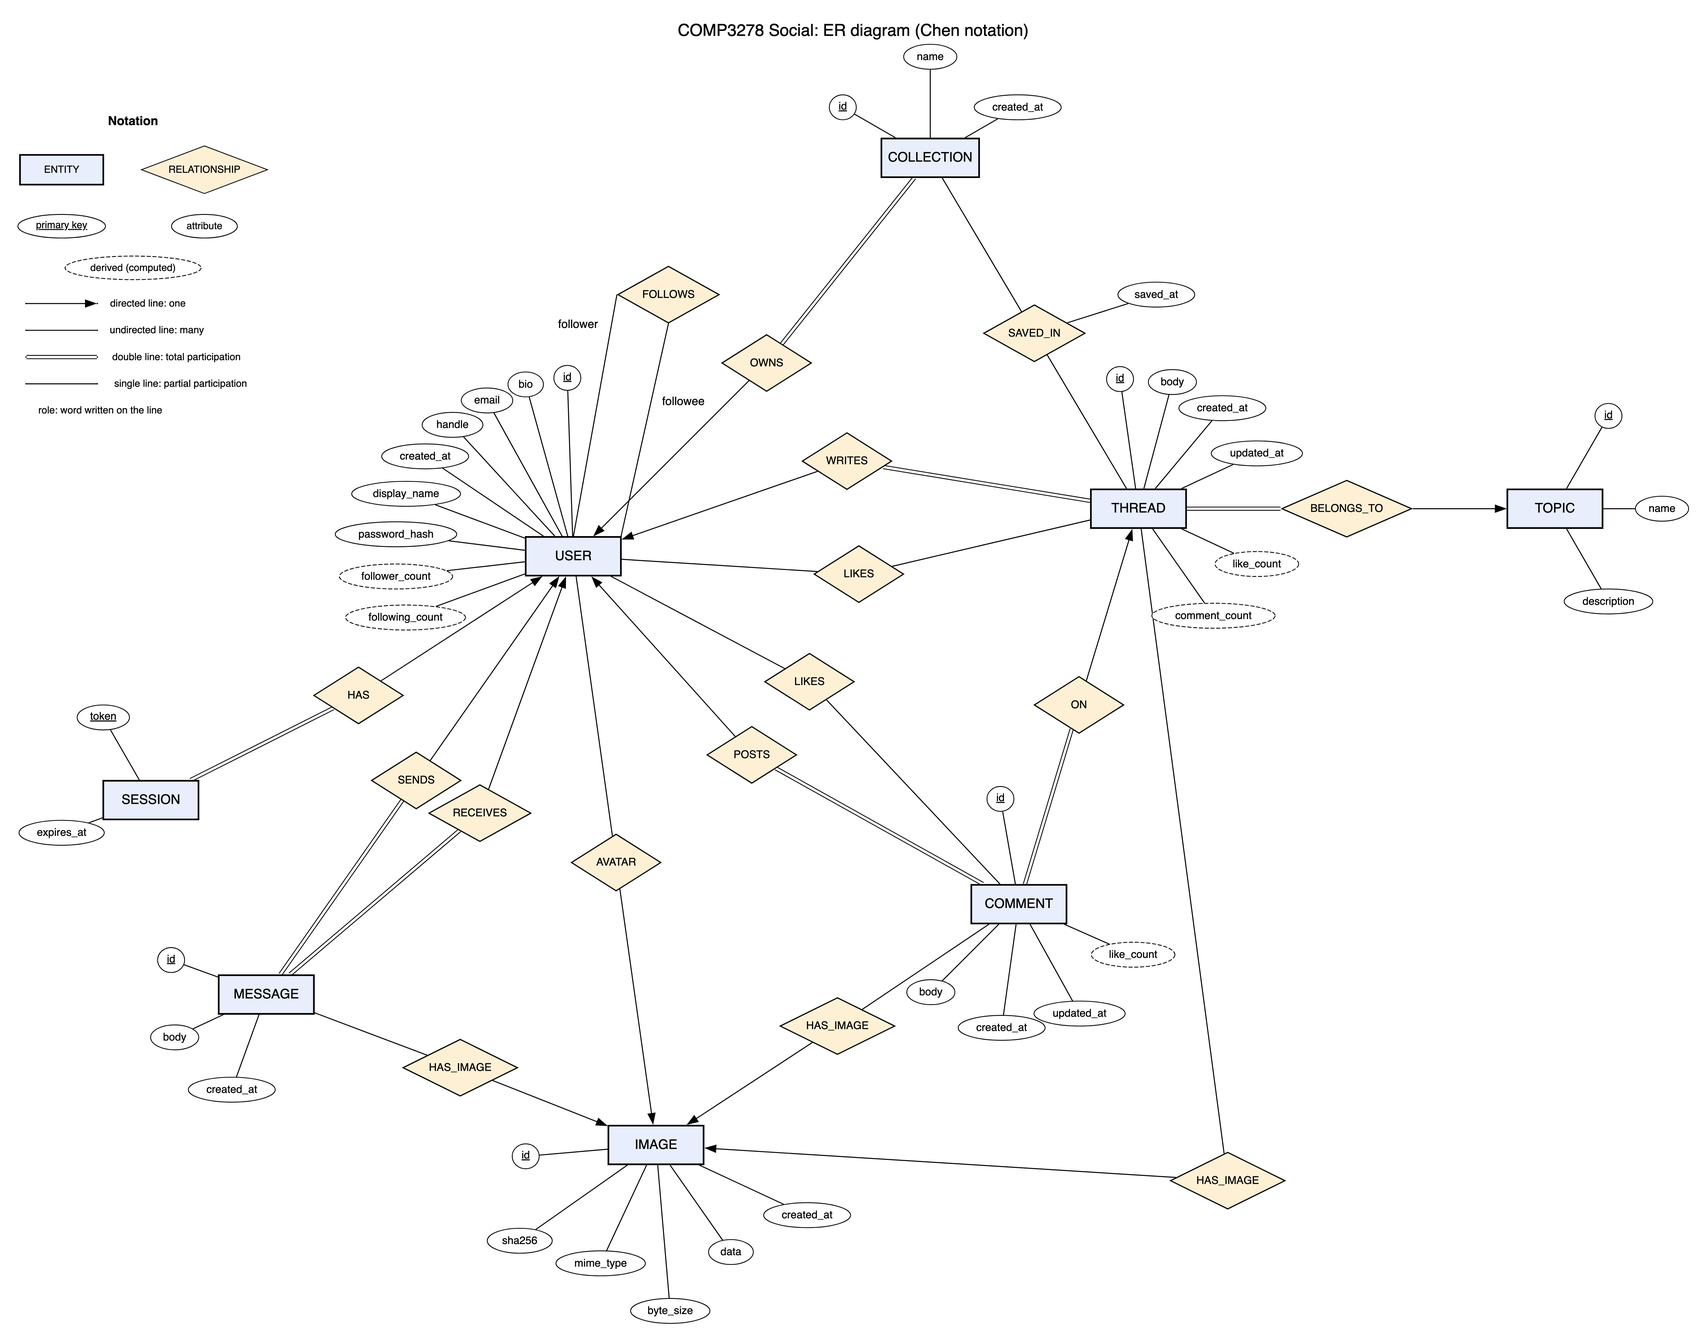
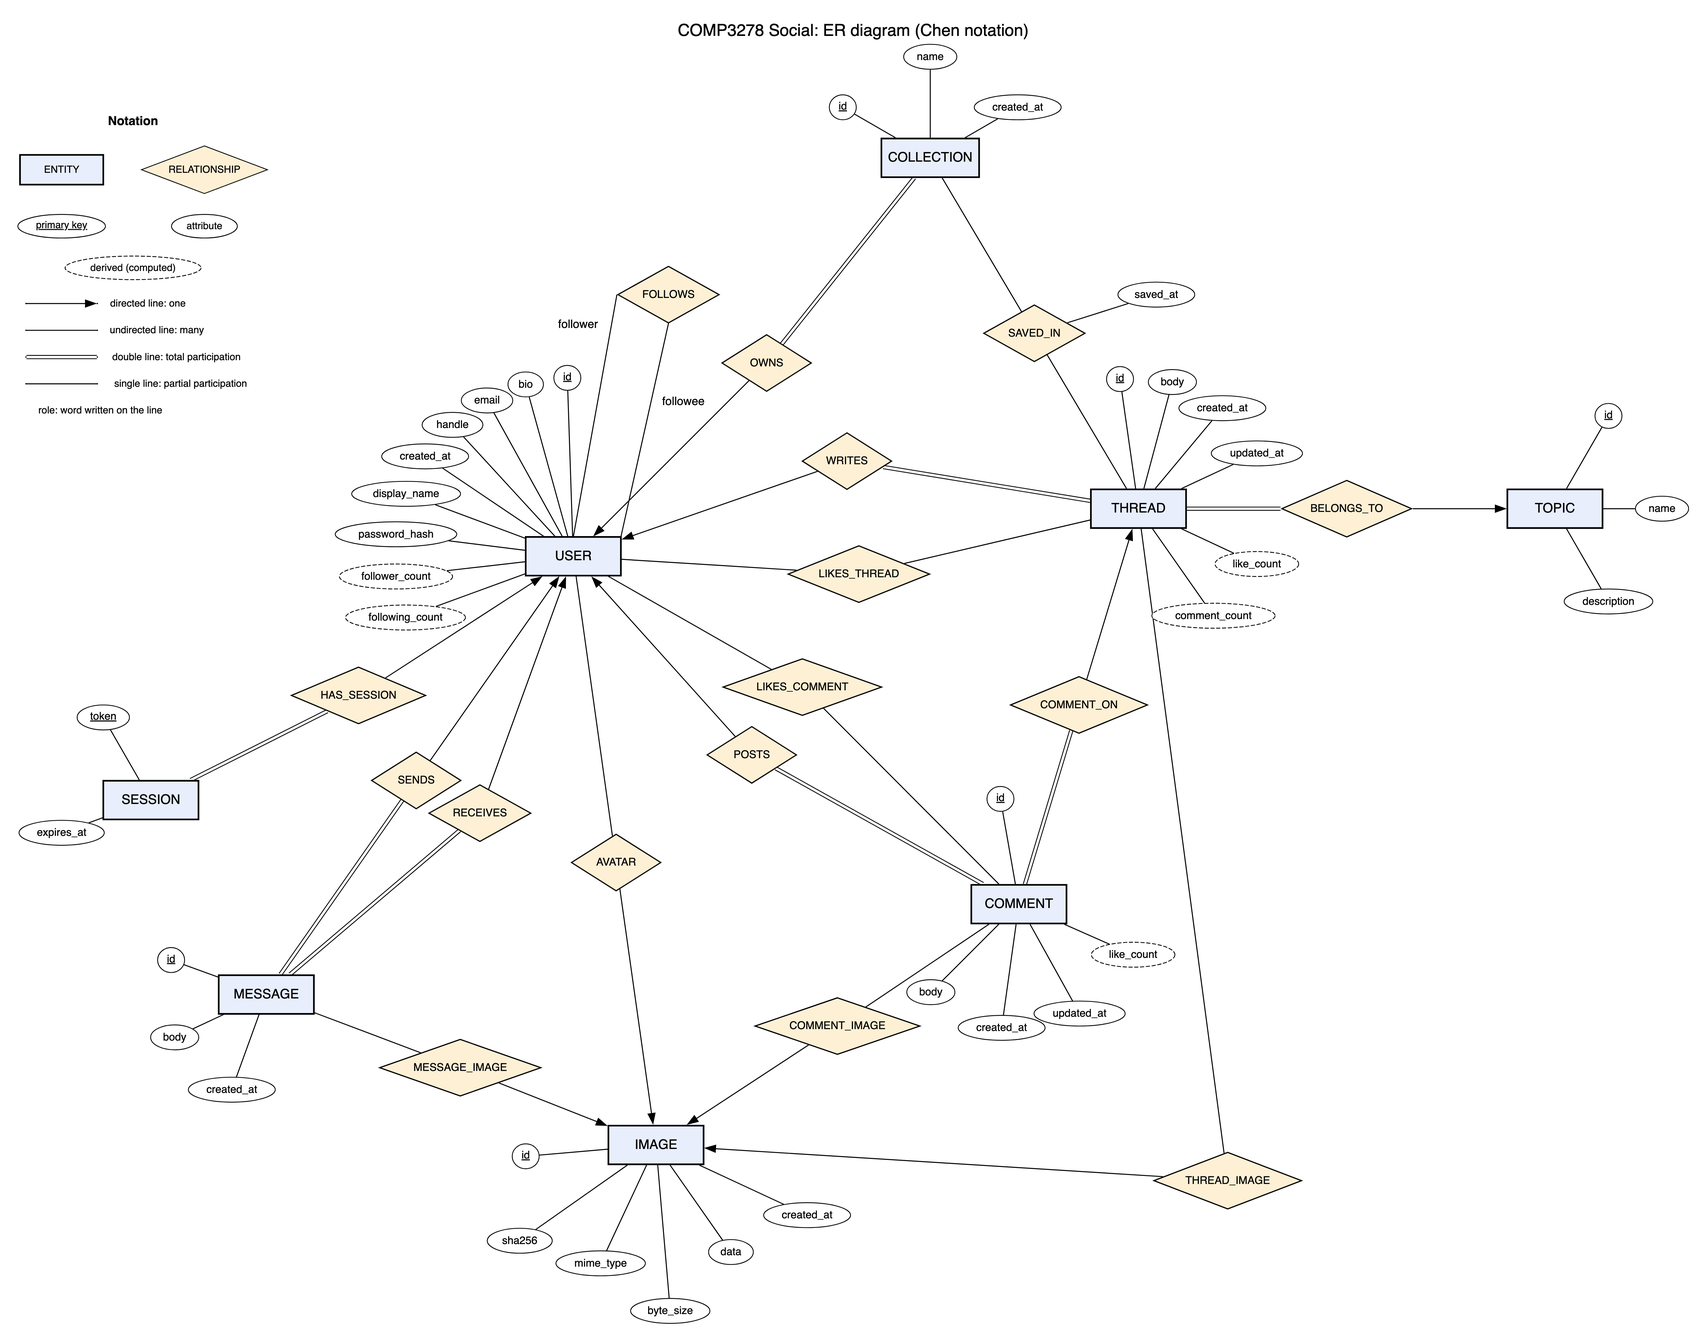
v3

diff --git a/docs/relational-schema.md b/docs/relational-schema.md
@@ -1,0 +1,109 @@
+# Relational schema, normalization and integrity constraints
+
+This document goes with the [ER diagram](er-diagram.md) and [`db/schema.sql`](../db/schema.sql). It covers:
+
+1. The relational schema produced from the ER diagram.
+2. The functional dependencies of each relation, and a check that every relation is in **BCNF**.
+3. Every integrity constraint, grouped by kind.
+4. The main design decisions and the alternatives that were rejected.
+
+## 1. Relational schema
+
+Notation: <u>underlined</u> = primary key, *italic* = foreign key (→ the table it references). Each relation lists its candidate keys and where it comes from in the ER diagram.
+
+| Relation | Candidate keys | From the ER diagram |
+|---|---|---|
+| **users**(<u>id</u>, handle, email, password_hash, display_name, bio, *avatar_image_id* → images, created_at) | {id}, {handle}, {email} | Entity USER; AVATAR becomes the foreign key `avatar_image_id` |
+| **sessions**(<u>token</u>, *user_id* → users, expires_at) | {token} | Entity SESSION; HAS_SESSION becomes `user_id` |
+| **images**(<u>id</u>, sha256, mime_type, byte_size, data, created_at) | {id}, {sha256}, {data} | Entity IMAGE |
+| **topics**(<u>id</u>, name, description) | {id}, {name} | Entity TOPIC |
+| **threads**(<u>id</u>, *author_id* → users, *topic_id* → topics, body, *image_id* → images, created_at, updated_at) | {id} | Entity THREAD; WRITES, BELONGS_TO and THREAD_IMAGE become foreign keys |
+| **comments**(<u>id</u>, *thread_id* → threads, *author_id* → users, body, *image_id* → images, created_at, updated_at) | {id} | Entity COMMENT; COMMENT_ON, POSTS and COMMENT_IMAGE become foreign keys |
+| **collections**(<u>id</u>, *owner_id* → users, name, created_at) | {id}, {owner_id, name} | Entity COLLECTION; OWNS becomes `owner_id` |
+| **messages**(<u>id</u>, *sender_id* → users, *recipient_id* → users, body, *image_id* → images, created_at) | {id} | Entity MESSAGE; SENDS, RECEIVES and MESSAGE_IMAGE become foreign keys |
+| **thread_likes**(<u>*user_id*, *thread_id*</u>) | {user_id, thread_id} | Many-to-many relationship LIKES_THREAD |
+| **comment_likes**(<u>*user_id*, *comment_id*</u>) | {user_id, comment_id} | Many-to-many relationship LIKES_COMMENT |
+| **follows**(<u>*follower_id*, *followee_id*</u>) | {follower_id, followee_id} | Recursive many-to-many FOLLOWS. The two columns are named after the roles. |
+| **collection_threads**(<u>*collection_id*, *thread_id*</u>, saved_at) | {collection_id, thread_id} | Many-to-many SAVED_IN, plus its attribute `saved_at` |
+
+The reduction follows the standard rules:
+
+- **Strong entity set** → its own relation, keyed by its primary key.
+- **One-to-many relationship** → a foreign key on the "many" side. It is `NOT NULL` when that side has total participation (a double line in the diagram) and nullable when participation is partial (AVATAR and the three *_IMAGE relationships).
+- **Many-to-many relationship** → its own relation, whose primary key is the union of the two participating keys. The relationship's own attributes (here only `saved_at`) become columns.
+- **Derived attributes** (`follower_count`, `following_count`, `like_count`, `comment_count`) are not columns. They are computed with `COUNT(*)` subqueries ([key-sql.md](key-sql.md) §1 and §3).
+
+## 2. Functional dependencies and BCNF
+
+A relation is in **BCNF** if, for every non-trivial functional dependency X → Y that holds in it, X is a superkey. For each relation below, the non-trivial FDs are listed, followed by why the relation is in BCNF.
+
+| Relation | Non-trivial functional dependencies | In BCNF because… |
+|---|---|---|
+| users | id → handle, email, password_hash, display_name, bio, avatar_image_id, created_at<br>handle → id<br>email → id | Every determinant (id, handle, email) is a candidate key (UNIQUE). |
+| sessions | token → user_id, expires_at | token is the key. |
+| images | id → sha256, mime_type, byte_size, data, created_at<br>sha256 → id<br>data → sha256, byte_size | id and sha256 are keys. data is also a superkey: it determines sha256, and sha256 determines the whole row. See the note below. |
+| topics | id → name, description<br>name → id | Both determinants are keys. |
+| threads | id → author_id, topic_id, body, image_id, created_at, updated_at | Only the key determines anything. For example, author_id does **not** determine topic_id. |
+| comments | id → thread_id, author_id, body, image_id, created_at, updated_at | As above. Note what is *not* stored: the comment's topic. Storing `topic_id` here would create the transitive dependency id → thread_id → topic_id, which breaks 3NF and BCNF. The topic is reached with a join instead. |
+| collections | id → owner_id, name, created_at<br>owner_id, name → id | Both determinants are keys. |
+| messages | id → sender_id, recipient_id, body, image_id, created_at | Only the key determines anything. |
+| thread_likes, comment_likes, follows | none (all-key relations) | An all-key relation has only trivial FDs, so it is always in BCNF. |
+| collection_threads | collection_id, thread_id → saved_at | The determinant is the key. |
+
+**All 12 relations are in BCNF**, and therefore also in 3NF. The schema has no partial or transitive dependencies on non-key attributes, so it has no update, insert or delete anomalies from redundancy.
+
+**Note on `images.byte_size`.** `byte_size` is computable from `data` (it is `LENGTH(data)`). Because `data` is a superkey of `images`, storing it does not break BCNF. It is still derived data, though, and is kept for convenience: the size can be read without loading the BLOB. To remove any risk of inconsistency, `CHECK (byte_size = LENGTH(data))` makes the DBMS reject a row whose stored size disagrees with its data.
+
+**Redundancy that was avoided on purpose:**
+
+| Possible redundant design | Why it was rejected |
+|---|---|
+| A `follower_count` / `like_count` column, updated on each follow or like | It would duplicate information already in `follows` and `thread_likes`, and drift whenever an update was missed. `COUNT(*)` over an indexed junction table is cheap at this scale. |
+| A `conversations` table for DMs | A conversation is completely determined by the pair (sender, recipient). The latest message per partner is derived with a window function ([key-sql.md](key-sql.md) §6), so the table would only add something that can disagree with `messages`. |
+| Storing `topic_id` or the thread author on `comments` | Transitive dependencies through `thread_id`, as explained in the table above. |
+| A copy of an image per upload | Identical files are stored once, keyed by their SHA-256, and shared by reference. |
+
+## 3. Integrity constraints
+
+| Kind | Where | Constraints |
+|---|---|---|
+| **Domain** | column types | Fixed-width keys (`CHAR(36)` UUID, `CHAR(64)` token and hash, `CHAR(60)` bcrypt), length limits on `VARCHAR`, `NOT NULL` on every required attribute |
+| | CHECK | `chk_users_handle`: 3–30 letters, digits or underscores (`REGEXP_LIKE`)<br>`chk_users_email`: basic `x@y.z` shape<br>`chk_users_display_name`, `chk_topics_name`, `chk_collections_name`: not blank<br>`chk_images_mime`: only jpeg, png, webp or gif<br>`chk_images_size`: 1 byte to 5 MB<br>`chk_images_size_matches`: `byte_size = LENGTH(data)` |
+| **Entity / key** | PRIMARY KEY, UNIQUE | One primary key per relation. Candidate keys enforced with UNIQUE: `users.handle`, `users.email`, `images.sha256`, `topics.name`, `collections(owner_id, name)`. Handle and email are unique ignoring case, because the collation is case-insensitive. |
+| **Referential** | FOREIGN KEY | 20 foreign keys, each with a chosen `ON DELETE` (see below). There are also 15 CHECK constraints in total. |
+| **Semantic (business rules)** | CHECK | `chk_threads_content`, `chk_comments_content`, `chk_messages_content`: a post or message needs non-blank text, an image, or both<br>`chk_threads_edit_time`, `chk_comments_edit_time`: `updated_at >= created_at`<br>`chk_follows_not_self`: you cannot follow yourself<br>`chk_messages_not_self`: you cannot message yourself |
+
+Each of these is tested by a deliberately invalid `INSERT` or `UPDATE` that the DBMS rejects. The app also validates input first, so users get a friendly message, but the database is the final authority.
+
+### Referential actions (`ON DELETE`)
+
+| Foreign key | Action | Reason |
+|---|---|---|
+| Everything owned by a user (`sessions`, `threads`, `comments`, `collections`, `messages` both ways, likes, follows both ways) | CASCADE | Deleting an account removes everything that only existed because of that user. One `DELETE FROM users` statement does it atomically. |
+| `comments.thread_id`, `thread_likes.thread_id`, `collection_threads.thread_id` | CASCADE | A comment, like or saved entry cannot exist without its thread. |
+| `comment_likes.comment_id`, `collection_threads.collection_id` | CASCADE | Same reasoning. |
+| `threads.topic_id` | RESTRICT | Every thread must have a topic (total participation), so a topic that still has threads cannot be deleted. |
+| `threads/comments/messages.image_id` | RESTRICT | Images are shared after deduplication. SET NULL would break the content CHECK, and MySQL also forbids SET NULL on a column used in a CHECK (error 3823). |
+| `users.avatar_image_id` | SET NULL | The avatar is optional, so losing it leaves a valid user. |
+
+### Indexes
+
+Every foreign key has an index, as InnoDB requires. Extra composite indexes match the main access paths:
+
+| Index | Serves |
+|---|---|
+| `threads(topic_id, created_at)` | Threads in a topic, newest first |
+| `threads(author_id, created_at)` | A user's threads on their profile |
+| `threads(created_at)` | The "All" feed |
+| `comments(thread_id, created_at)` | A thread's comments in order |
+| `messages(sender_id, recipient_id, created_at)` and `messages(recipient_id, sender_id, created_at)` | A conversation in either direction, and both branches of the conversation-list query |
+| `thread_likes(thread_id)`, `comment_likes(comment_id)`, `follows(followee_id)`, `collection_threads(thread_id)` | Lookups from the second column of each junction table (like counts, follower counts, "is this thread saved") |
+
+## 4. Design decisions and alternatives
+
+- **Surrogate keys.** `users.id` (a UUID) is separate from the user-visible `handle`, so renaming a handle is a one-row UPDATE and no foreign key changes. The other entities use `AUTO_INCREMENT` ids. The natural candidate keys are still enforced with UNIQUE.
+- **No weak entity sets.** Every entity has its own identifier. COLLECTION was the closest candidate: it could be modelled as a weak entity of USER with discriminator `name`, since `(owner_id, name)` is unique and a collection cannot exist without its owner. That would make `(owner_id, name)` the primary key, which `collection_threads` would then reference. Renaming a collection would then mean updating primary-key values that other tables point to (`ON UPDATE CASCADE`). A surrogate `id` plus `UNIQUE(owner_id, name)` keeps the same uniqueness rule with stable keys.
+- **Images as a separate entity.** Storing image data in the `threads`, `comments`, `messages` and `users` rows would duplicate BLOBs and repeat the type and size columns in four tables. One `images` relation referenced by foreign keys keeps each fact in one place and makes deduplication possible.
+- **Known trade-offs:**
+  - `CHAR(36)` text UUIDs were required by the specification. `BINARY(16)` would use less space and index better, and random UUIDs scatter inserts across the primary-key index.
+  - Image rows are never deleted, because they can be shared, so unused images can pile up. Cleaning them up would need reference counting or a periodic sweep: `DELETE FROM images WHERE id NOT IN (…all referencing columns…)`.

diff --git a/docs/er-diagram.md b/docs/er-diagram.md
@@ -47,24 +47,26 @@ Foreign-key columns (`author_id`, `topic_id`, `owner_id`, …) are not drawn as 
 
 | Relationship | Between | Mapping cardinality | Arrow points to | Participation | Meaning |
 |---|---|---|---|---|---|
-| HAS | USER – SESSION | one-to-many | USER | SESSION total | A user can be logged in on many browsers; every session belongs to one user. |
+| HAS_SESSION | USER – SESSION | one-to-many | USER | SESSION total | A user can be logged in on many browsers; every session belongs to one user. |
 | WRITES | USER – THREAD | one-to-many | USER | THREAD total | Every thread has exactly one author. |
 | BELONGS_TO | TOPIC – THREAD | one-to-many | TOPIC | THREAD total | Every thread is in exactly one topic, chosen when it is created. |
-| ON | THREAD – COMMENT | one-to-many | THREAD | COMMENT total | Every comment is on exactly one thread. |
+| COMMENT_ON | THREAD – COMMENT | one-to-many | THREAD | COMMENT total | Every comment is on exactly one thread. |
 | POSTS | USER – COMMENT | one-to-many | USER | COMMENT total | Every comment has exactly one author. |
 | OWNS | USER – COLLECTION | one-to-many | USER | COLLECTION total | Every collection has one owner. |
 | SENDS | USER – MESSAGE | one-to-many | USER | MESSAGE total | Every message has one sender… |
 | RECEIVES | USER – MESSAGE | one-to-many | USER | MESSAGE total | …and one recipient. Two separate relationships between the same pair of entity sets. |
-| LIKES | USER – THREAD | many-to-many | (none) | both partial | A user likes many threads; a thread is liked by many users. |
-| LIKES | USER – COMMENT | many-to-many | (none) | both partial | The same, for comments. |
+| LIKES_THREAD | USER – THREAD | many-to-many | (none) | both partial | A user likes many threads; a thread is liked by many users. |
+| LIKES_COMMENT | USER – COMMENT | many-to-many | (none) | both partial | The same, for comments. |
 | FOLLOWS | USER – USER | many-to-many | (none) | both partial | **Recursive** relationship with two roles written on its lines: *follower* and *followee*. |
 | SAVED_IN | COLLECTION – THREAD | many-to-many | (none) | both partial | A collection holds many threads, and a thread can be in many collections. Has its own attribute, **saved_at**. |
 | AVATAR | IMAGE – USER | one-to-many | IMAGE | both partial | A user has at most one avatar. Because uploads are deduplicated, one image can be the avatar of many users. |
-| HAS_IMAGE | IMAGE – THREAD | one-to-many | IMAGE | both partial | A thread has at most one image; one image can be shared by many threads. |
-| HAS_IMAGE | IMAGE – COMMENT | one-to-many | IMAGE | both partial | The same, for comments. |
-| HAS_IMAGE | IMAGE – MESSAGE | one-to-many | IMAGE | both partial | The same, for messages. |
+| THREAD_IMAGE | IMAGE – THREAD | one-to-many | IMAGE | both partial | A thread has at most one image; one image can be shared by many threads. |
+| COMMENT_IMAGE | IMAGE – COMMENT | one-to-many | IMAGE | both partial | The same, for comments. |
+| MESSAGE_IMAGE | IMAGE – MESSAGE | one-to-many | IMAGE | both partial | The same, for messages. |
 
 ## From the ER diagram to the tables
+
+Every relationship set has a unique name, and that name carries over to its table or foreign key. The full relational schema, the functional dependencies and the BCNF check are in [relational-schema.md](relational-schema.md).
 
 The schema in [`db/schema.sql`](../db/schema.sql) follows the standard ER-to-relational mapping:
 
@@ -73,24 +75,24 @@ The schema in [`db/schema.sql`](../db/schema.sql) follows the standard ER-to-rel
 
    | Relationship | Foreign key column | NULL? |
    |---|---|---|
-   | HAS | `sessions.user_id → users.id` | NOT NULL (total) |
+   | HAS_SESSION | `sessions.user_id → users.id` | NOT NULL (total) |
    | WRITES | `threads.author_id → users.id` | NOT NULL (total) |
    | BELONGS_TO | `threads.topic_id → topics.id` | NOT NULL (total) |
-   | ON | `comments.thread_id → threads.id` | NOT NULL (total) |
+   | COMMENT_ON | `comments.thread_id → threads.id` | NOT NULL (total) |
    | POSTS | `comments.author_id → users.id` | NOT NULL (total) |
    | OWNS | `collections.owner_id → users.id` | NOT NULL (total) |
    | SENDS | `messages.sender_id → users.id` | NOT NULL (total) |
    | RECEIVES | `messages.recipient_id → users.id` | NOT NULL (total) |
    | AVATAR | `users.avatar_image_id → images.id` | NULL allowed (partial) |
-   | HAS_IMAGE ×3 | `threads.image_id`, `comments.image_id`, `messages.image_id → images.id` | NULL allowed (partial) |
+   | THREAD_IMAGE, COMMENT_IMAGE, MESSAGE_IMAGE | `threads.image_id`, `comments.image_id`, `messages.image_id → images.id` | NULL allowed (partial) |
 
    This is where the double lines show up in the schema: total participation means the foreign key is `NOT NULL`.
 3. **Each many-to-many relationship (no arrows) becomes its own junction table.** The table holds the two foreign keys, which together form a composite primary key, plus any attributes of the relationship:
 
    | Relationship | Junction table | Composite primary key | Extra column |
    |---|---|---|---|
-   | LIKES (thread) | `thread_likes` | (user_id, thread_id) | |
-   | LIKES (comment) | `comment_likes` | (user_id, comment_id) | |
+   | LIKES_THREAD | `thread_likes` | (user_id, thread_id) | |
+   | LIKES_COMMENT | `comment_likes` | (user_id, comment_id) | |
    | FOLLOWS | `follows` | (follower_id, followee_id), named after the two roles | |
    | SAVED_IN | `collection_threads` | (collection_id, thread_id) | `saved_at` |
 
@@ -99,10 +101,15 @@ The schema in [`db/schema.sql`](../db/schema.sql) follows the standard ER-to-rel
 
 ### Constraints the diagram cannot show
 
-Chen notation has no symbol for these rules, so they are enforced in `db/schema.sql`:
+Chen notation has no symbol for these rules, so they are enforced by CHECK and UNIQUE constraints in `db/schema.sql`. The full list is in [relational-schema.md §3](relational-schema.md#3-integrity-constraints).
 
-- **THREAD, COMMENT and MESSAGE need text or an image:** `CHECK (body IS NOT NULL OR image_id IS NOT NULL)`.
-- **No following yourself:** `CHECK (follower_id <> followee_id)` on `follows`.
-- **Collection names are unique per owner:** `UNIQUE (owner_id, name)`.
-- **Handles must be 3–30 letters, digits or underscores**, checked with `REGEXP_LIKE`. Handle and email are unique, ignoring case.
-- **Delete behaviour.** Deleting a user cascades to everything that depends on them. A topic that still has threads cannot be deleted (RESTRICT). An image that is still referenced cannot be deleted (RESTRICT). The comments in `schema.sql` explain each choice.
+- **THREAD, COMMENT and MESSAGE need non-blank text, an image, or both.**
+- **No following yourself, and no messaging yourself.**
+- **`updated_at` can never be earlier than `created_at`.**
+- **Collection names are unique per owner** (`UNIQUE (owner_id, name)`) and cannot be blank. The same goes for display names and topic names.
+- **Handles must be 3–30 letters, digits or underscores, and emails must look like `x@y.z`.** Handle and email are unique, ignoring case.
+- **An image's stored `byte_size` must equal `LENGTH(data)`.**
+- **Delete behaviour:**
+  - Deleting a user cascades to everything that depends on them.
+  - A topic that still has threads cannot be deleted (RESTRICT).
+  - An image that is still referenced cannot be deleted (RESTRICT).

diff --git a/README.md b/README.md
@@ -4,7 +4,7 @@ A small social web app: threads grouped by topic, comments, likes, follows, save
 
 - **Stack:** Next.js 16 (App Router, TypeScript) + MySQL 8, using the `mysql2/promise` driver with a connection pool.
 - **No ORM or query builder.** Every database operation is hand-written, parameterized SQL in [`src/lib/queries/`](src/lib/queries), one file per entity.
-- **Docs:** [ER diagram](docs/er-diagram.md) · [Key SQL queries explained](docs/key-sql.md) · [Schema](db/schema.sql)
+- **Docs:** [ER diagram](docs/er-diagram.md) · [Relational schema & normalization (BCNF)](docs/relational-schema.md) · [Key SQL queries explained](docs/key-sql.md) · [Schema](db/schema.sql)
 
 ---
 
@@ -167,6 +167,7 @@ Other scripts: `npm run typecheck` runs `tsc --noEmit`.
 │   ├── er-diagram.md           # Chen-notation ER diagram + relationships + mapping to tables
 │   ├── er-diagram.svg / .png   # the rendered diagram (PNG for slides)
 │   ├── er-diagram.dot          # Graphviz source of the diagram
+│   ├── relational-schema.md    # relational schema, functional dependencies, BCNF, constraints
 │   └── key-sql.md              # the most interesting queries, explained
 ├── docker-compose.yml          # MySQL 8.4 on host port ${DB_PORT}
 ├── .env.example
